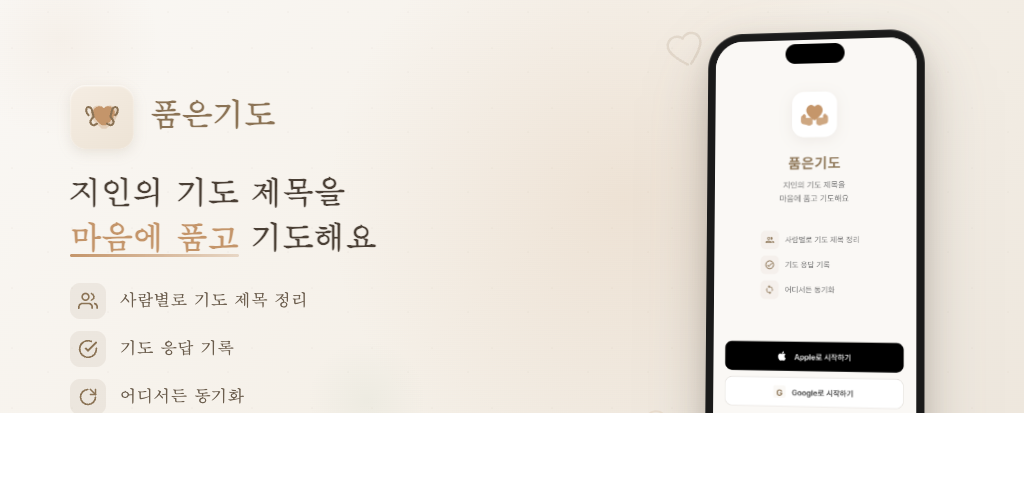
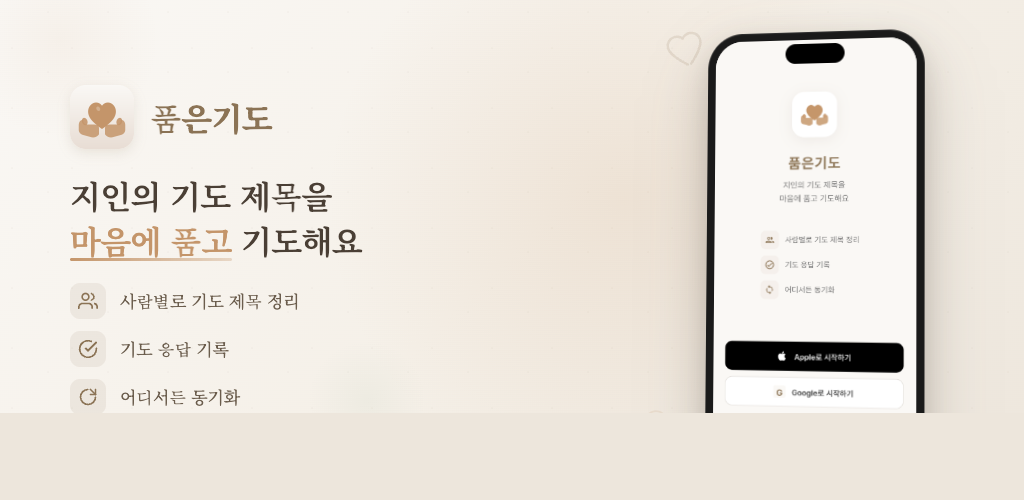
#style: 마케팅 이미지 수정 - 배경색 통일, 실제 앱 아이콘 적용

diff --git a/assets/marketing/play_store_feature_graphic.html b/assets/marketing/play_store_feature_graphic.html
@@ -24,11 +24,12 @@
             --success: #7A9E7E;
         }
 
-        body {
+        html, body {
             width: 1024px;
             height: 500px;
             overflow: hidden;
             font-family: 'Noto Serif KR', serif;
+            background: #EDE6DC;
         }
 
         .container {
@@ -84,19 +85,16 @@
         .logo-icon {
             width: 64px;
             height: 64px;
-            background: linear-gradient(145deg, #F5EDE3 0%, #EDE3D5 100%);
             border-radius: 16px;
-            display: flex;
-            align-items: center;
-            justify-content: center;
+            overflow: hidden;
             box-shadow:
-                0 4px 12px rgba(139, 115, 85, 0.15),
-                inset 0 1px 2px rgba(255, 255, 255, 0.8);
+                0 4px 12px rgba(139, 115, 85, 0.15);
         }
 
-        .logo-icon svg {
-            width: 40px;
-            height: 40px;
+        .logo-icon img {
+            width: 100%;
+            height: 100%;
+            object-fit: cover;
         }
 
         .app-name {
@@ -304,17 +302,7 @@
         <div class="content">
             <div class="logo-section">
                 <div class="logo-icon">
-                    <svg viewBox="0 0 48 48" fill="none">
-                        <!-- Two hands embracing a heart -->
-                        <path d="M24 38C24 38 10 28 10 20C10 14.5 14.5 10 20 10C22.5 10 24.8 11.2 26.5 13C28.2 11.2 30.5 10 33 10C38.5 10 43 14.5 43 20C43 28 29 38 29 38" fill="#C4956A" opacity="0.3"/>
-                        <path d="M24 34C24 34 13 26 13 19C13 14.6 16.6 11 21 11C23 11 24.9 11.9 26.2 13.4C27.5 11.9 29.4 11 31.4 11C35.8 11 39.4 14.6 39.4 19C39.4 26 28.4 34 28.4 34" fill="#C4956A"/>
-                        <!-- Left hand -->
-                        <path d="M8 22C6 20 5 18 5 16C5 14 6 12 8 12C10 12 12 14 12 16L14 24" stroke="#8B7355" stroke-width="2.5" stroke-linecap="round" fill="none"/>
-                        <path d="M14 24C12 26 10 28 10 30C10 32 12 34 14 34L18 32" stroke="#8B7355" stroke-width="2.5" stroke-linecap="round" fill="none"/>
-                        <!-- Right hand -->
-                        <path d="M40 22C42 20 43 18 43 16C43 14 42 12 40 12C38 12 36 14 36 16L34 24" stroke="#8B7355" stroke-width="2.5" stroke-linecap="round" fill="none"/>
-                        <path d="M34 24C36 26 38 28 38 30C38 32 36 34 34 34L30 32" stroke="#8B7355" stroke-width="2.5" stroke-linecap="round" fill="none"/>
-                    </svg>
+                    <img src="../icons/app_icon.png" alt="품은기도 앱 아이콘">
                 </div>
                 <span class="app-name">품은기도</span>
             </div>
